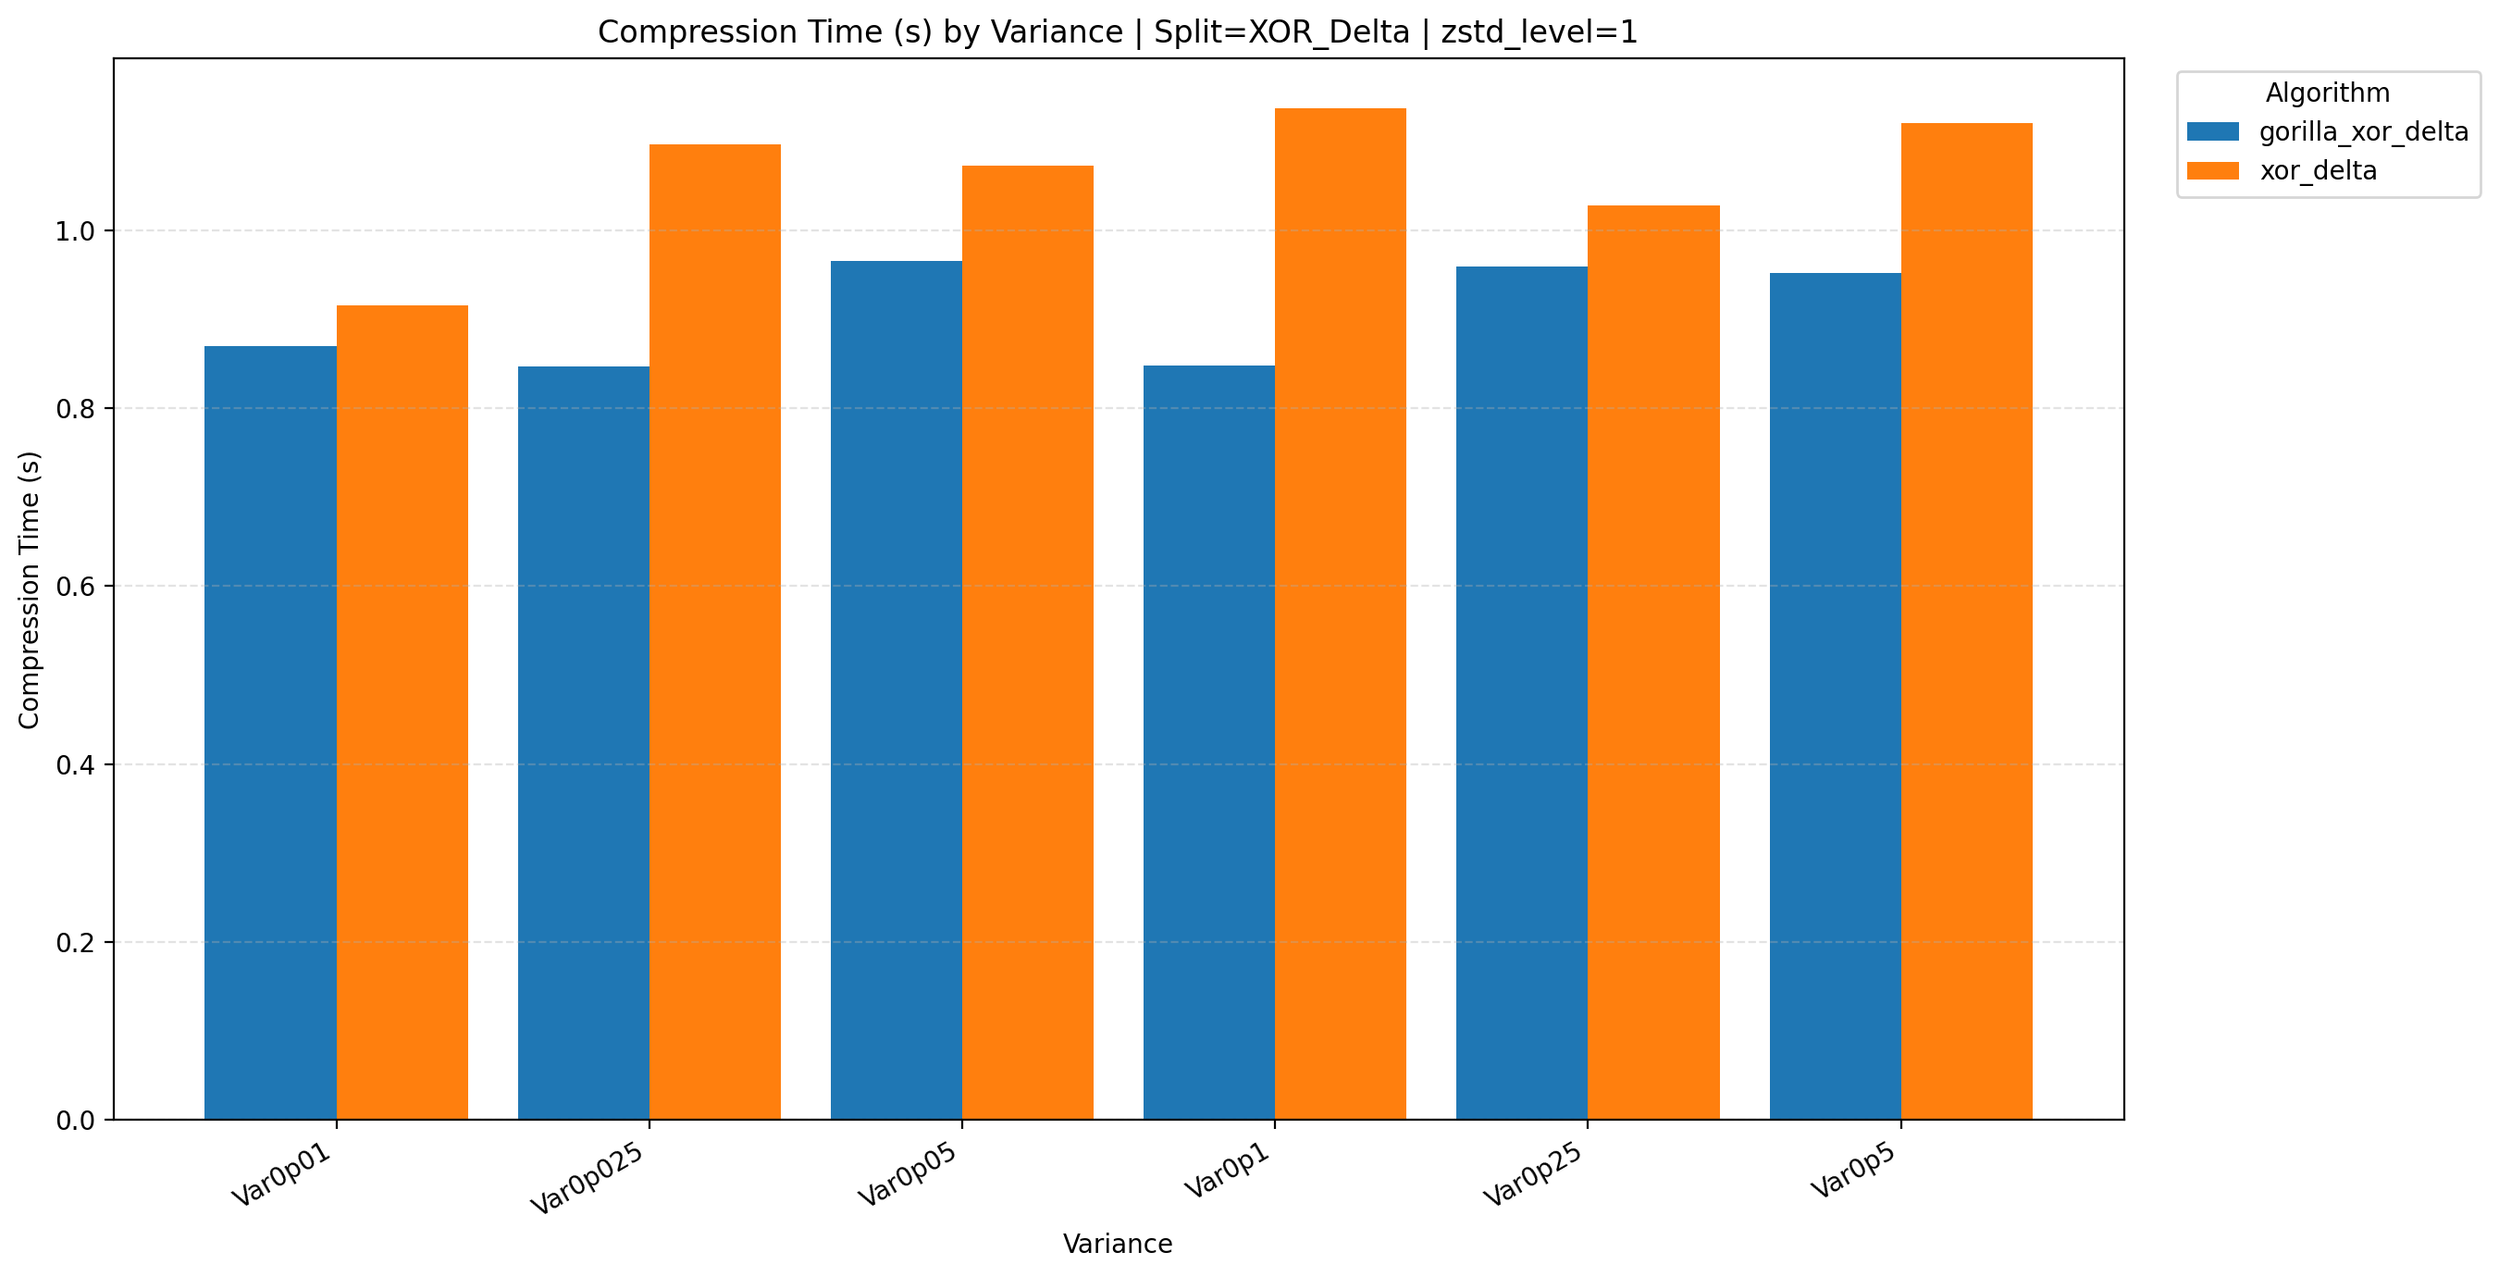
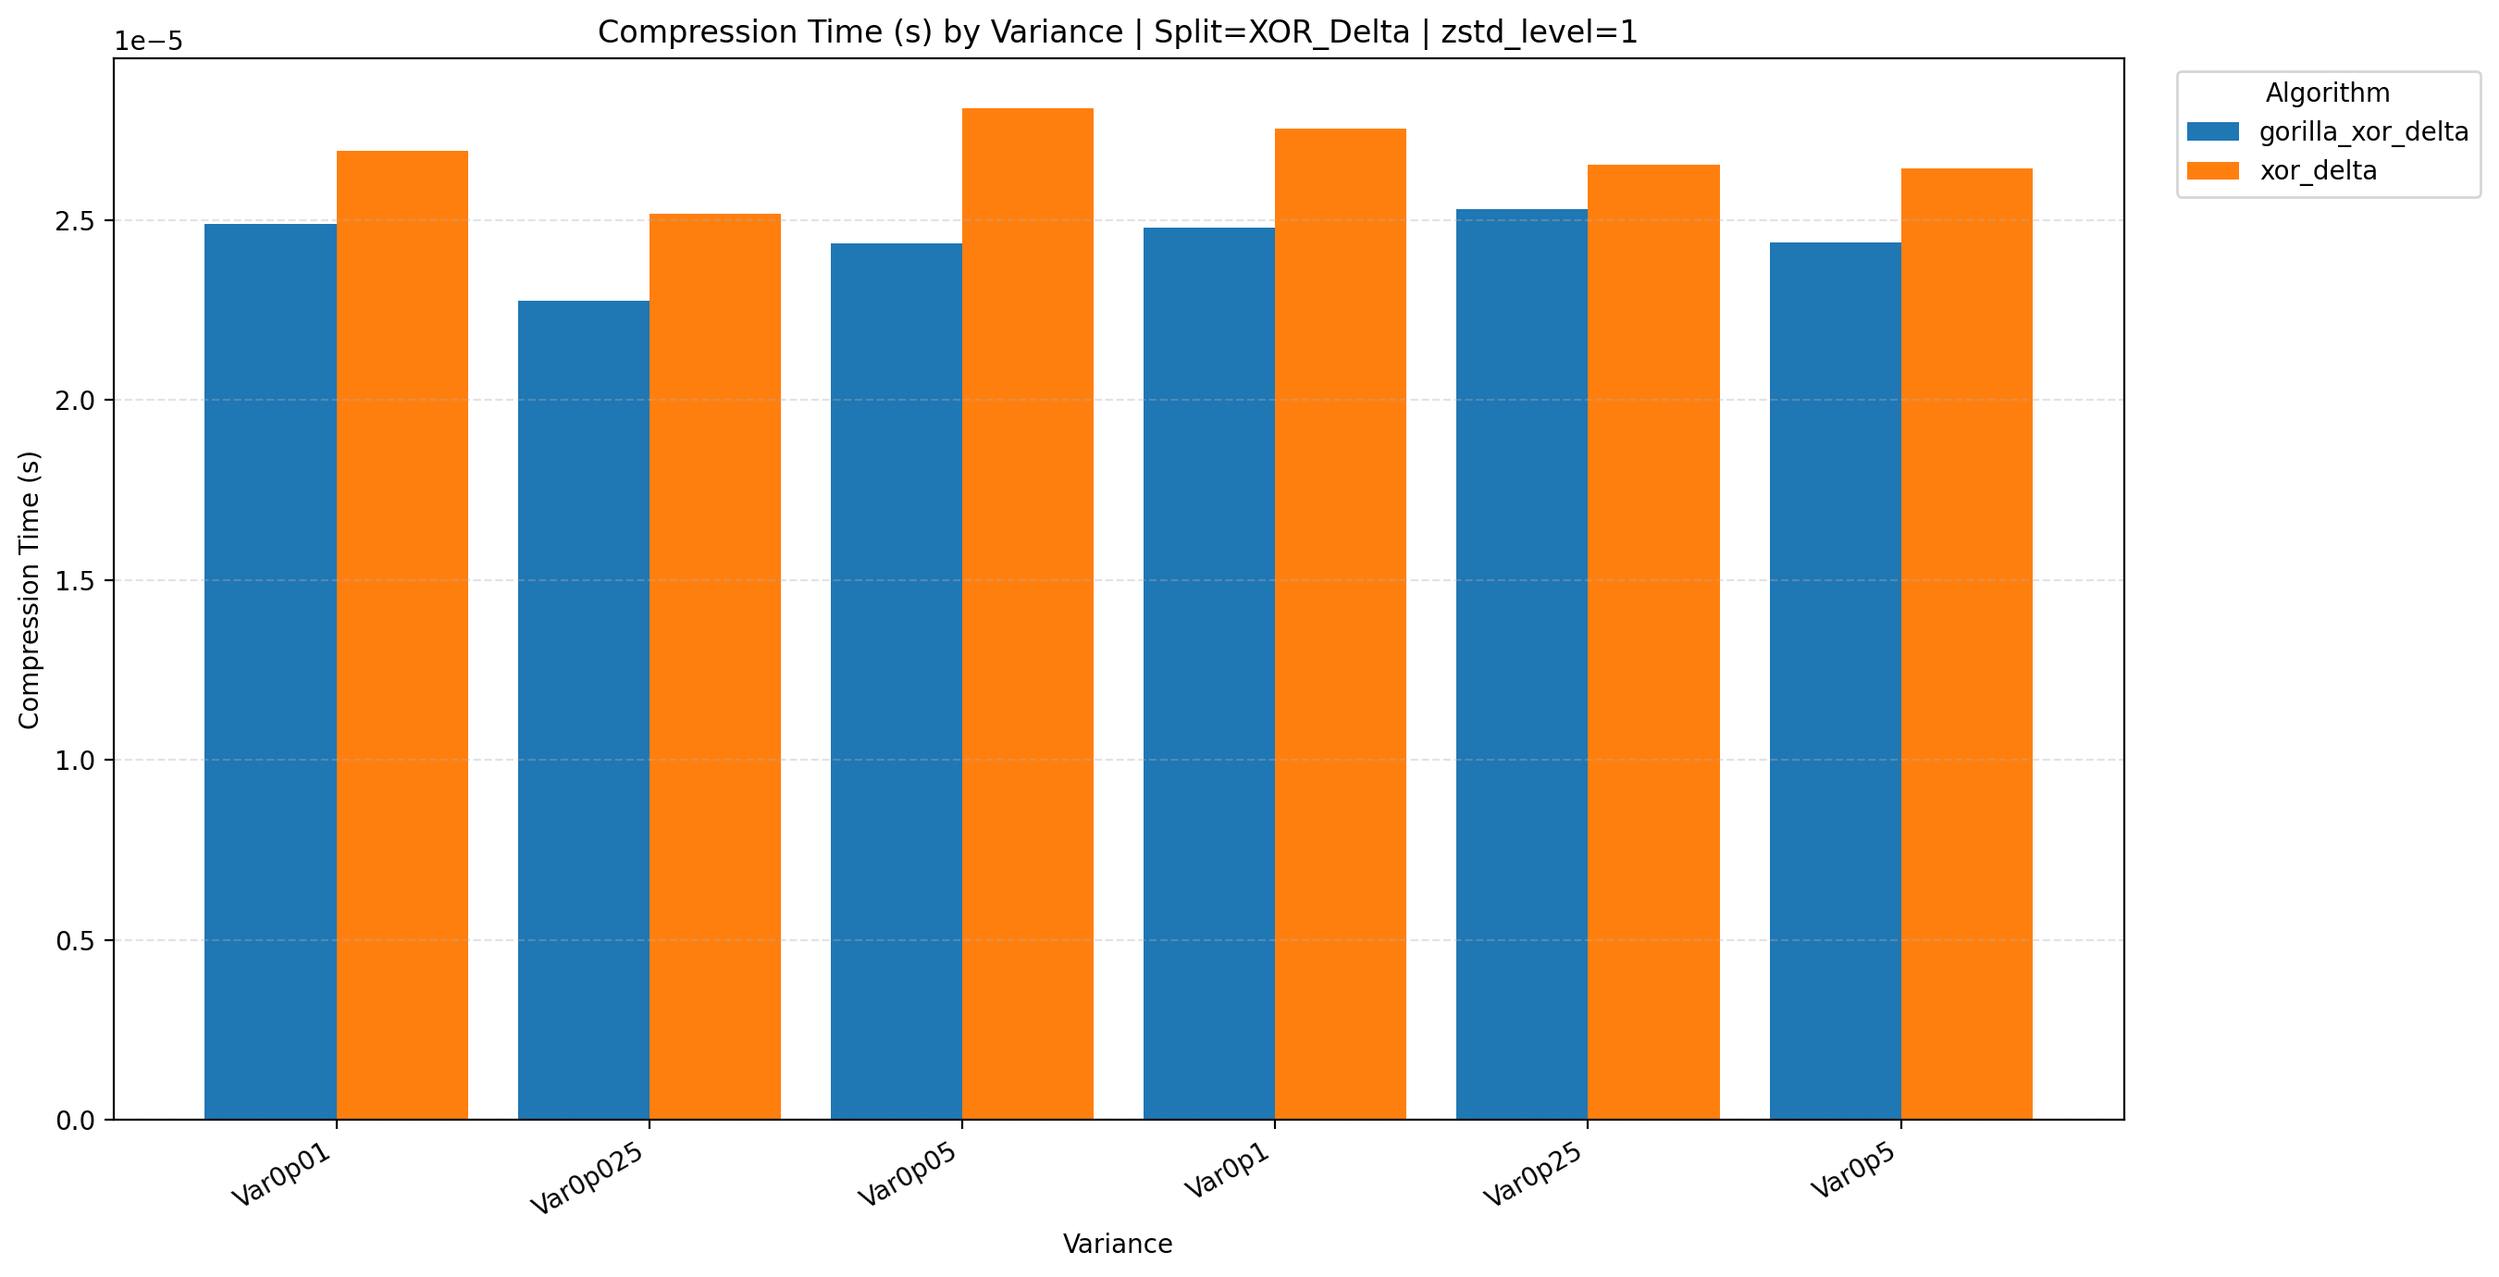
code

diff --git a/Plot_Script_Old.py b/Plot_Script_Old.py
@@ -8,13 +8,13 @@ import numpy as np
 import pandas as pd
 
 
-INPUT_JSONL = "compression_results_2_10_V2.jsonl"
+INPUT_JSONL = "compression_results_2_30_V1.jsonl"
 OUTPUT_DIR = Path("PLOTS")
 
-# Only splits and levels that the current benchmark actually produces
-SPLITS_TO_PLOT    = ["Base", "XOR_Delta"]
-ZSTD_LEVELS_TO_PLOT = [1]
+SPLITS_TO_PLOT = ["Base", "Redraw0p01", "XOR_Delta"]
+ZSTD_LEVELS_TO_PLOT = [1, 19]
 
+# Exact format names from the data
 FORMAT_ORDER = [
     "FP32E8M23",
     "BF16E8M7",
@@ -25,9 +25,10 @@ FORMAT_ORDER = [
     "NVFP4E2M1",
 ]
 
+# Metrics from the nested "weights" object
 METRICS = {
-    "weights_ratio":             "Compression Ratio",
-    "weights_compress_time_s":   "Compression Time (s)",
+    "weights_ratio": "Compression Ratio",
+    "weights_compress_time_s": "Compression Time (s)",
     "weights_decompress_time_s": "Decompression Time (s)",
 }
 
@@ -39,27 +40,30 @@ def load_jsonl(path: str) -> pd.DataFrame:
             line = line.strip()
             if not line:
                 continue
+
             try:
                 obj = json.loads(line)
             except json.JSONDecodeError as e:
                 raise ValueError(f"Invalid JSON on line {line_num}: {e}") from e
 
             weights = obj.get("weights", {}) or {}
-            scales  = obj.get("scales",  {}) or {}
+            scales = obj.get("scales", {}) or {}
 
-            rows.append({
-                "format":                    obj.get("format"),
-                "variance":                  obj.get("variance"),
-                "split":                     obj.get("split"),
-                "algorithm":                 obj.get("algorithm"),
-                "zstd_level":                obj.get("zstd_level"),
-                "weights_ratio":             weights.get("ratio"),
-                "weights_compress_time_s":   weights.get("compress_time_s"),
-                "weights_decompress_time_s": weights.get("decompress_time_s"),
-                "scales_ratio":              scales.get("ratio"),
-                "scales_compress_time_s":    scales.get("compress_time_s"),
-                "scales_decompress_time_s":  scales.get("decompress_time_s"),
-            })
+            rows.append(
+                {
+                    "format": obj.get("format"),
+                    "variance": obj.get("variance"),
+                    "split": obj.get("split"),
+                    "algorithm": obj.get("algorithm"),
+                    "zstd_level": obj.get("zstd_level"),
+                    "weights_ratio": weights.get("ratio"),
+                    "weights_compress_time_s": weights.get("compress_time_s"),
+                    "weights_decompress_time_s": weights.get("decompress_time_s"),
+                    "scales_ratio": scales.get("ratio"),
+                    "scales_compress_time_s": scales.get("compress_time_s"),
+                    "scales_decompress_time_s": scales.get("decompress_time_s"),
+                }
+            )
 
     if not rows:
         raise ValueError(f"No rows found in {path}")
@@ -75,6 +79,18 @@ def coerce_numeric(df: pd.DataFrame, cols):
     return df
 
 
+def normalize_split_name(value):
+    s = str(value).strip()
+    lookup = {
+        "base": "Base",
+        "redraw0p01": "Redraw0p01",
+        "xor_delta": "XOR_Delta",
+        "xordelta": "XOR_Delta",
+    }
+    key = s.lower().replace("-", "_").replace(" ", "_")
+    return lookup.get(key, s)
+
+
 def sort_variance_values(series: pd.Series):
     raw_values = [v for v in pd.unique(series) if pd.notna(v)]
     temp = pd.DataFrame({"variance": raw_values})
@@ -83,12 +99,14 @@ def sort_variance_values(series: pd.Series):
         .astype(str)
         .str.replace("Var", "", regex=False)
         .str.replace("var", "", regex=False)
-        .str.replace("p",   ".", regex=False)
+        .str.replace("p", ".", regex=False)
     )
     temp["variance_num"] = pd.to_numeric(temp["variance_num"], errors="coerce")
+
     if temp["variance_num"].notna().all():
         temp = temp.sort_values("variance_num")
         return temp["variance"].tolist()
+
     return raw_values
 
 
@@ -108,7 +126,7 @@ def plot_grouped_bars(
     output_path: Path,
 ):
     sub = df[
-        (df["split"]      == split_name)
+        (df["split"] == split_name)
         & (df["zstd_level"] == zstd_level)
         & df[metric_col].notna()
         & df[group_col].notna()
@@ -125,10 +143,7 @@ def plot_grouped_bars(
     if group_col == "format":
         group_values = [g for g in FORMAT_ORDER if g in set(sub["format"].astype(str))]
     else:
-        group_values = [
-            g for g in sub[group_col].cat.categories
-            if g in set(sub[group_col].astype(str))
-        ]
+        group_values = [g for g in sub[group_col].cat.categories if g in set(sub[group_col].astype(str))]
 
     algo_values = sorted(pd.unique(sub[algo_col].astype(str)).tolist())
 
@@ -140,6 +155,8 @@ def plot_grouped_bars(
 
     pivot = grouped.pivot(index=group_col, columns=algo_col, values=metric_col)
     pivot = pivot.reindex(index=group_values, columns=algo_values)
+
+    # Drop groups that are entirely NaN, which avoids blank / non-rendering plots
     pivot = pivot.dropna(axis=0, how="all")
     pivot = pivot.dropna(axis=1, how="all")
 
@@ -150,18 +167,20 @@ def plot_grouped_bars(
         )
         return
 
-    n_groups  = len(pivot.index)
-    n_algos   = len(pivot.columns)
-    x         = np.arange(n_groups)
+    n_groups = len(pivot.index)
+    n_algos = len(pivot.columns)
+
+    x = np.arange(n_groups)
     total_width = 0.84
-    bar_width   = total_width / max(n_algos, 1)
+    bar_width = total_width / max(n_algos, 1)
 
     fig_width = max(12, 1.6 * n_groups + 4)
-    fig, ax   = plt.subplots(figsize=(fig_width, 7))
+    fig, ax = plt.subplots(figsize=(fig_width, 7))
 
     for i, algo in enumerate(pivot.columns):
         offsets = x - (total_width / 2) + (i + 0.5) * bar_width
-        ax.bar(offsets, pivot[algo].values, width=bar_width, label=str(algo))
+        values = pivot[algo].values
+        ax.bar(offsets, values, width=bar_width, label=str(algo))
 
     ax.set_title(
         f"{metric_label} by {group_label} | Split={split_name} | zstd_level={zstd_level}"
@@ -173,6 +192,7 @@ def plot_grouped_bars(
     ax.legend(title="Algorithm", bbox_to_anchor=(1.02, 1), loc="upper left")
     ax.grid(axis="y", linestyle="--", alpha=0.35)
     fig.tight_layout()
+
     fig.savefig(output_path, dpi=200, bbox_inches="tight")
     plt.close(fig)
     print(f"Saved: {output_path}")
@@ -195,8 +215,10 @@ def main():
             f"Available columns: {list(df.columns)}"
         )
 
+    df["split"] = df["split"].map(normalize_split_name)
     df = coerce_numeric(df, ["zstd_level"] + list(METRICS.keys()))
 
+    # Exact format ordering, but only keep formats present in the file
     present_formats = [f for f in FORMAT_ORDER if f in set(df["format"].astype(str))]
     df["format"] = pd.Categorical(df["format"], categories=present_formats, ordered=True)
 
@@ -206,7 +228,10 @@ def main():
     for split_name in SPLITS_TO_PLOT:
         for zstd_level in ZSTD_LEVELS_TO_PLOT:
             for metric_col, metric_label in METRICS.items():
-
+                out_format = (
+                    OUTPUT_DIR
+                    / f"{metric_col}_by_format_split_{split_name}_zstd{zstd_level}.png"
+                )
                 plot_grouped_bars(
                     df=df,
                     split_name=split_name,
@@ -216,9 +241,13 @@ def main():
                     group_col="format",
                     group_label="Quantization Type / Format",
                     algo_col="algorithm",
-                    output_path=OUTPUT_DIR / f"{metric_col}_by_format_split_{split_name}_zstd{zstd_level}.png",
+                    output_path=out_format,
                 )
 
+                out_variance = (
+                    OUTPUT_DIR
+                    / f"{metric_col}_by_variance_split_{split_name}_zstd{zstd_level}.png"
+                )
                 plot_grouped_bars(
                     df=df,
                     split_name=split_name,
@@ -228,7 +257,7 @@ def main():
                     group_col="variance",
                     group_label="Variance",
                     algo_col="algorithm",
-                    output_path=OUTPUT_DIR / f"{metric_col}_by_variance_split_{split_name}_zstd{zstd_level}.png",
+                    output_path=out_variance,
                 )
 
     print("\nDone.")

diff --git a/CompressionBenchmark.py b/CompressionBenchmark.py
@@ -56,10 +56,10 @@ import zstandard as zstd
 # Constants
 # ──────────────────────────────────────────────────────────────────────────────
 
-RESULTS_DIR  = Path(__file__).parent / "RESULTS_2_30"
+RESULTS_DIR  = Path(__file__).parent / "RESULTS_2_10"
 OUTPUT_JSONL = Path(__file__).parent / "compression_results.jsonl"
 
-CHUNK_BYTES = 1024 * 1024 * 1024   # 1GB — always byte-aligned for every field
+CHUNK_BYTES = 128 * 1024 * 1024   # 128 MB — always byte-aligned for every field
 ZSTD_LEVEL  = 1
 MAX_WORKERS = 42                   # 7 formats × 6 variances
 
@@ -297,46 +297,36 @@ class _Gorilla:
 # Multi-stream compress / decompress
 # ──────────────────────────────────────────────────────────────────────────────
 
-def _compress_multistream(field_chunks_iter, level: int):
+def _compress_multistream(field_chunks_iter_factory, level: int):
     """
     Compress a multi-stream algorithm over a file.
 
-    field_chunks_iter: iterable of chunk field-lists.
-      Each element is a list of (name, bytes) tuples — one per stream.
-      All chunks must yield the same number/order of streams.
+    field_chunks_iter_factory: callable returning an iterable of chunk
+      field-lists.  Called twice — once to compress, once to decompress —
+      so that both passes read the raw file and include preprocessing cost.
+      Each element of the iterable is a list of (name, bytes) tuples.
 
     Returns:
       compressed_bytes_total  — sum of all compressed stream sizes
-      compress_time_s         — time to extract fields + compress all streams
-      decompress_time_s       — time to decompress all streams + re-interleave
+      compress_time_s         — time to extract all fields + compress (full pass)
+      decompress_time_s       — time to extract all fields + decompress (full pass)
 
-    Re-interleave cost: we decompress each stream and XOR-reconstruct back to
-    the original interleaved byte order (byte_transpose) or bit order
-    (semantic_sep, bitplane).  For timing purposes we measure the full round-
-    trip decompression including reconstruction, since that is the cost a real
-    user would pay to recover the data.
-
-    Implementation note: we accumulate compressed blobs per stream across all
-    chunks, then decompress all at once.  This is necessary because stream k of
-    chunk i must be decompressed before chunk i's contribution to stream k can
-    be re-interleaved — but since we are only timing (not actually storing the
-    output), we simply decompress every compressed blob and discard.
+    Timing is symmetric: both compress and decompress time include the field-
+    extraction / preprocessing cost (np.packbits, bit-plane extraction, etc.)
+    so results are comparable to the single-stream algorithms which also include
+    their preprocessing inside the timed window.
     """
     cctx = zstd.ZstdCompressor(level=level)
     dctx = zstd.ZstdDecompressor()
 
-    # Accumulate per-stream compressed blobs across chunks
-    # stream_blobs: list of lists — stream_blobs[stream_idx] = [blob, blob, …]
-    stream_blobs  = None
-    stream_names  = None
-    t_compress    = 0.0
+    # ── Compression pass (includes field extraction) ──────────────────────────
+    stream_blobs = None
+    t_compress   = 0.0
 
-    for field_list in field_chunks_iter:
+    for field_list in field_chunks_iter_factory():
+        t0 = time.perf_counter()
         if stream_blobs is None:
             stream_blobs = [[] for _ in field_list]
-            stream_names = [name for name, _ in field_list]
-
-        t0 = time.perf_counter()
         for s_idx, (_, data) in enumerate(field_list):
             blob = cctx.compress(data)
             stream_blobs[s_idx].append(blob)
@@ -347,13 +337,21 @@ def _compress_multistream(field_chunks_iter, level: int):
 
     total_compressed = sum(len(b) for blobs in stream_blobs for b in blobs)
 
-    # Decompress every blob (and discard — we are timing, not storing)
+    # ── Decompression pass (includes field extraction, discard output) ────────
     t_decompress = 0.0
+
+    for field_list in field_chunks_iter_factory():
+        t0 = time.perf_counter()
+        for _, _ in field_list:
+            pass   # field extraction cost is inside the timed window
+        t_decompress += time.perf_counter() - t0
+
+    # Add Zstd decompression time on top
     t0 = time.perf_counter()
     for blobs in stream_blobs:
         for blob in blobs:
             dctx.decompress(blob)
-    t_decompress = time.perf_counter() - t0
+    t_decompress += time.perf_counter() - t0
 
     return total_compressed, t_compress, t_decompress
 
@@ -403,16 +401,16 @@ def _run_algo(algo: str, path: Path, redraw: Path, fmt: dict):
 
     # ── Multi-stream algorithms ───────────────────────────────────────────────
     if algo == "byte_transpose":
-        field_iter = (_fields_byte_transpose(c, fmt) for c in _read_chunks(path))
-        return _compress_multistream(field_iter, level)
+        return _compress_multistream(
+            lambda: (_fields_byte_transpose(c, fmt) for c in _read_chunks(path)), level)
 
     if algo == "semantic_sep":
-        field_iter = (_fields_semantic_sep(c, fmt)   for c in _read_chunks(path))
-        return _compress_multistream(field_iter, level)
+        return _compress_multistream(
+            lambda: (_fields_semantic_sep(c, fmt)   for c in _read_chunks(path)), level)
 
     if algo == "bitplane":
-        field_iter = (_fields_bitplane(c, fmt)        for c in _read_chunks(path))
-        return _compress_multistream(field_iter, level)
+        return _compress_multistream(
+            lambda: (_fields_bitplane(c, fmt)        for c in _read_chunks(path)), level)
 
     # ── Single-stream algorithms ──────────────────────────────────────────────
     if algo == "raw_zstd":
